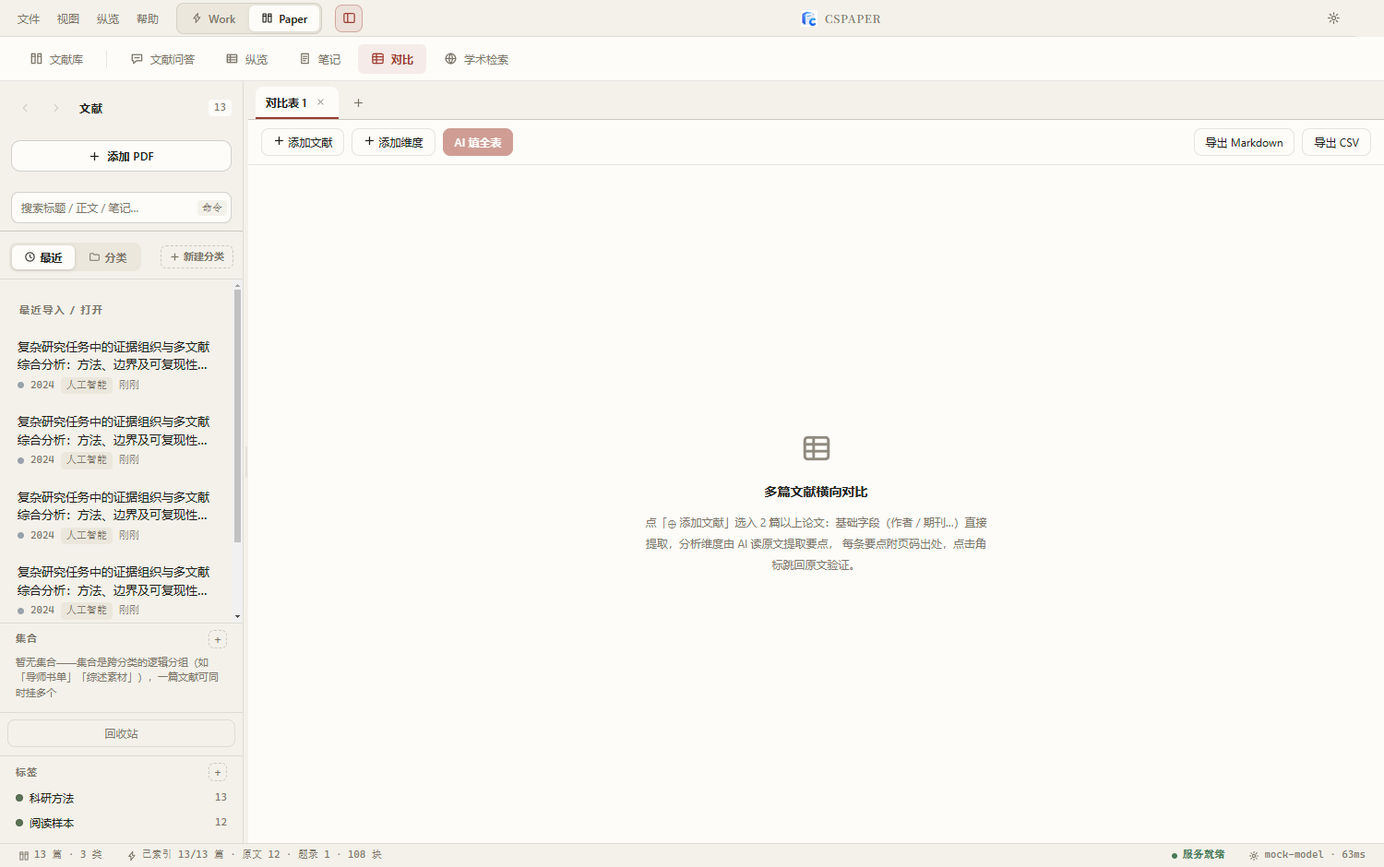
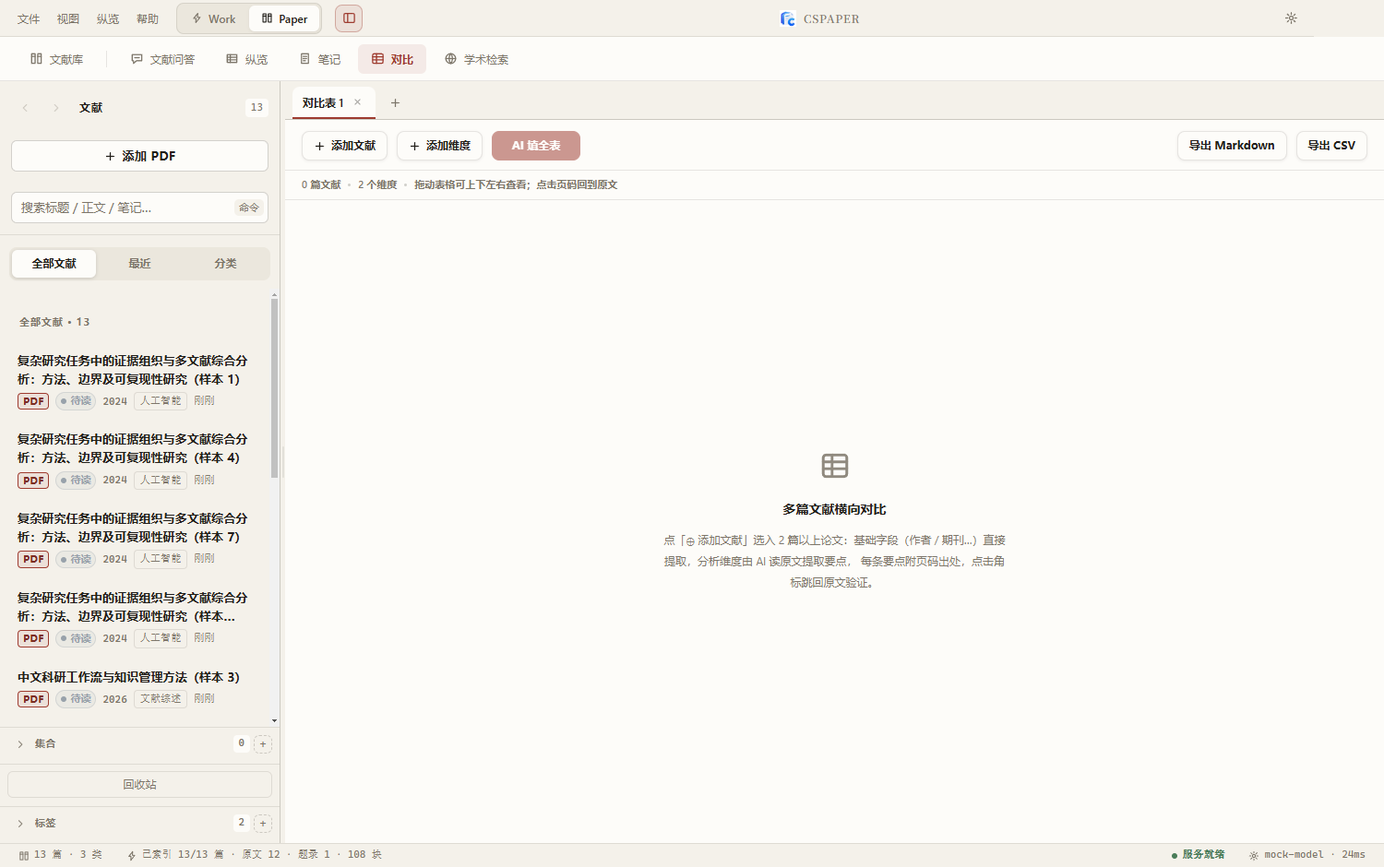
fix: make comparison tables pannable
Add drag-to-pan for comparison tables, keep headers and identity columns visible, and redesign toolbar, table density, citations and hover states.

Verified typecheck, 83/83 core regressions, 103/103 UI regressions including right/down drag, build, CSS gate, and landing tests.

diff --git a/src/renderer/src/styles.css b/src/renderer/src/styles.css
@@ -870,48 +870,99 @@ html.mac { --tb-h: 44px; }
 .paper-item .deep-snip { font-size: 11px; color: var(--text-dim); line-height: 1.55; margin-top: 4px;
                          display: -webkit-box; -webkit-line-clamp: 2; -webkit-box-orient: vertical; overflow: hidden; }
 
-/* ============ v0.4：AI 对比表格（CompareView） ============ */
-.cmp-host { flex: 1; min-width: 0; display: flex; flex-direction: column; background: var(--bg); }
-.cmp-wrap { flex: 1; min-width: 0; display: flex; flex-direction: column; }
+/* ============ Work：AI 对比表格 ============ */
+.cmp-host { flex: 1; min-width: 0; min-height: 0; display: flex; flex-direction: column; background: var(--bg); }
+.cmp-wrap { flex: 1; min-width: 0; min-height: 0; display: flex; flex-direction: column; }
 .cmp-add-tab { color: var(--text-dim); font-size: 13px; justify-content: center; min-width: 34px; }
 .cmp-add-tab:hover { color: var(--accent); }
-.cmp-toolbar { display: flex; align-items: center; gap: 8px; padding: 9px 14px; border-bottom: 1px solid var(--line); background: var(--bg); }
-.cmp-btn { border: 1px solid var(--line); background: var(--surface); color: var(--text); border-radius: 8px;
-           padding: 6px 12px; font-size: 12px; cursor: pointer; }
-.cmp-btn:hover { border-color: var(--accent); color: var(--accent); }
-.cmp-btn.primary { background: var(--accent); border-color: var(--accent); color: #fff; font-weight: 600; }
-.cmp-btn.primary:hover { opacity: .92; color: #fff; }
-.cmp-btn:disabled { opacity: .5; cursor: default; }
-.cmp-err { padding: 7px 14px; font-size: 12px; color: var(--danger); background: rgba(180,68,60,.07); }
-.cmp-scroll { flex: 1; overflow: auto; }
-.cmp-table { border-collapse: separate; border-spacing: 0; min-width: 100%; font-size: 12px; }
-.cmp-table th, .cmp-table td { border-bottom: 1px solid var(--line); border-right: 1px solid var(--line);
-                               padding: 10px 12px; vertical-align: top; text-align: left; background: var(--surface); }
-.cmp-table th { position: sticky; top: 0; z-index: 2; font-weight: 600; font-size: 12px; background: var(--bg2); white-space: nowrap; }
-.cmp-table td.cmp-idx, .cmp-table th.cmp-idx { position: sticky; left: 0; z-index: 1; color: var(--text-dim); min-width: 34px; text-align: right; }
-.cmp-table th.cmp-idx { z-index: 3; }
-.cmp-table td.cmp-title, .cmp-table th.cmp-title { position: sticky; left: 34px; min-width: 190px; max-width: 250px; z-index: 1; }
-.cmp-table th.cmp-title { z-index: 3; }
-.cmp-title-text { font-weight: 600; line-height: 1.5; cursor: pointer; }
-.cmp-title-text:hover { color: var(--accent); text-decoration: underline; text-underline-offset: 2px; }
-.cmp-title-actions { display: flex; gap: 6px; margin-top: 8px; }
-.cmp-mini { border: 1px solid var(--line); background: none; color: var(--text-dim); border-radius: 6px;
-            padding: 2px 8px; font-size: 11px; cursor: pointer; }
-.cmp-mini:hover { color: var(--accent); border-color: var(--accent); }
-.cmp-mini.danger:hover { color: var(--danger); border-color: var(--danger); }
-.cmp-mini:disabled { opacity: .55; cursor: default; }
+
+.cmp-toolbar {
+  flex: none; display: flex; align-items: center; flex-wrap: wrap; gap: 10px;
+  padding: 12px 18px 10px; border-bottom: 1px solid var(--border);
+  background: var(--bg); font-family: var(--sans);
+}
+.cmp-toolbar-group { display: flex; align-items: center; gap: 8px; min-width: 0; }
+.cmp-btn {
+  display: inline-flex; align-items: center; gap: 6px; min-height: 32px; padding: 0 12px;
+  border: 1px solid var(--border); border-radius: 8px; background: var(--bg); color: var(--text);
+  font: 600 12px/1 var(--sans); cursor: pointer; box-shadow: var(--shadow-sm);
+  transition: border-color var(--speed), color var(--speed), background var(--speed), transform var(--speed);
+}
+.cmp-btn:hover:not(:disabled), .cmp-btn:focus-visible { border-color: var(--accent); color: var(--accent2); background: var(--accent-soft); outline: none; }
+.cmp-btn.primary { border-color: var(--accent); background: var(--accent); color: #fff; }
+.cmp-btn.primary:hover:not(:disabled), .cmp-btn.primary:focus-visible { background: var(--accent2); border-color: var(--accent2); color: #fff; }
+.cmp-btn:disabled { opacity: .52; cursor: not-allowed; box-shadow: none; }
+.cmp-toolbar .cmp-btn.primary { min-width: 96px; justify-content: center; }
+.cmp-meta-bar {
+  flex: none; display: flex; align-items: center; gap: 8px; padding: 7px 18px;
+  border-bottom: 1px solid var(--border); color: var(--text-dim); font-size: 11px; font-weight: 600;
+}
+.cmp-meta-bar i { width: 3px; height: 3px; border-radius: 50%; background: var(--border-lit); }
+.cmp-err { margin: 0 18px; padding: 7px 10px; border: 1px solid rgba(213,96,108,.34); border-radius: 6px; font-size: 12px; color: var(--danger); background: rgba(213,96,108,.07); }
+
+.cmp-scroll {
+  flex: 1; min-width: 0; min-height: 0; overflow: auto; overscroll-behavior: auto;
+  scrollbar-gutter: stable; background: var(--bg2); cursor: grab;
+}
+.cmp-scroll.panning { cursor: grabbing; user-select: none; }
+.cmp-scroll:focus-visible { outline: 2px solid var(--accent); outline-offset: -2px; }
+
+.cmp-table {
+  width: max-content; min-width: max(100%, 1080px); border-collapse: separate; border-spacing: 0;
+  font-family: var(--sans); font-size: 13px; color: var(--text);
+}
+.cmp-table th, .cmp-table td {
+  box-sizing: border-box; padding: 12px 14px; vertical-align: top; text-align: left;
+  background: var(--bg); border-right: 1px solid var(--border); border-bottom: 1px solid var(--border);
+}
+.cmp-table th:last-child, .cmp-table td:last-child { border-right: 0; }
+.cmp-table tbody tr:last-child td { border-bottom: 0; }
+.cmp-table tbody tr:hover td { background: color-mix(in srgb, var(--bg2) 82%, var(--accent-soft)); }
+.cmp-table th {
+  position: sticky; top: 0; z-index: 2; min-height: 46px; align-items: center;
+  color: var(--text-dim); background: var(--bg); font-size: 12px; font-weight: 700; white-space: nowrap;
+  border-bottom: 1px solid var(--border-lit);
+}
+.cmp-table td.cmp-idx, .cmp-table th.cmp-idx {
+  position: sticky; left: 0; z-index: 1; width: 48px; min-width: 48px; max-width: 48px;
+  padding: 12px 9px; color: var(--text-dim); font-family: var(--mono); text-align: right;
+}
+.cmp-table td.cmp-title, .cmp-table th.cmp-title {
+  position: sticky; left: 48px; z-index: 1; width: 300px; min-width: 300px; max-width: 330px;
+}
+.cmp-table th.cmp-idx, .cmp-table th.cmp-title { z-index: 4; box-shadow: 3px 0 0 -2px var(--border); }
+.cmp-table td.cmp-idx, .cmp-table td.cmp-title { box-shadow: 3px 0 0 -2px var(--border); }
+.cmp-title-text { color: var(--text); font-size: 13px; font-weight: 650; line-height: 1.55; cursor: pointer; overflow-wrap: anywhere; }
+.cmp-title-text:hover { color: var(--accent2); text-decoration: underline; text-underline-offset: 3px; }
+.cmp-title-actions { display: flex; gap: 5px; margin-top: 10px; }
+.cmp-mini {
+  display: inline-flex; align-items: center; min-height: 24px; padding: 0 8px;
+  border: 1px solid var(--border); border-radius: 6px; background: var(--bg2);
+  color: var(--text-dim); font: 600 11px/1 var(--sans); cursor: pointer;
+  transition: color var(--speed), border-color var(--speed), background var(--speed);
+}
+.cmp-mini:hover:not(:disabled), .cmp-mini:focus-visible { color: var(--accent2); border-color: var(--accent); background: var(--accent-soft); outline: none; }
+.cmp-mini.danger:hover, .cmp-mini.danger:focus-visible { color: var(--danger); border-color: var(--danger); background: rgba(213,96,108,.08); }
+.cmp-mini:disabled { opacity: .55; cursor: not-allowed; }
 .cmp-missing { color: var(--text-dim); font-size: 12px; }
-.cmp-cell { min-width: 230px; max-width: 330px; }
-.cmp-empty { color: var(--text-dim); }
-.cmp-points { margin: 0; padding: 0; list-style: none; display: flex; flex-direction: column; gap: 7px; }
-.cmp-points li { display: flex; gap: 6px; align-items: flex-start; line-height: 1.6; }
-.cmp-points li > span { flex: 1; }
-.cmp-points .cite-chip { flex: none; margin-top: 2px; }
-.cmp-meta { min-width: 130px; max-width: 200px; font-size: 12px; color: var(--text-dim); }
-.cmp-pick-list { max-height: 330px; overflow-y: auto; display: flex; flex-direction: column; gap: 2px; padding: 4px 2px; }
-.cmp-pick-row { display: flex; gap: 9px; align-items: center; padding: 7px 9px; border-radius: 8px; font-size: 12px; cursor: pointer; }
-.cmp-pick-row:hover { background: var(--bg2); }
+
+.cmp-table td.cmp-meta { width: 148px; min-width: 148px; max-width: 180px; color: var(--text-dim); font-size: 12px; line-height: 1.55; }
+.cmp-table td.cmp-cell { width: 390px; min-width: 390px; max-width: 470px; }
+.cmp-empty { color: var(--text-dim); opacity: .62; font-size: 12px; }
+.cmp-points { margin: 0; padding: 0; list-style: none; display: flex; flex-direction: column; gap: 10px; }
+.cmp-points li { display: flex; gap: 8px; align-items: flex-start; }
+.cmp-points li > span { flex: 1; min-width: 0; color: var(--text); font-size: 13px; line-height: 1.65; overflow-wrap: anywhere; }
+.cmp-points .cite-chip {
+  flex: none; min-width: 25px; margin: 2px 0 0; padding: 3px 7px;
+  border: 1px solid rgba(158,59,47,.24); border-radius: 999px; background: var(--accent-soft);
+  color: var(--accent2); font: 600 11px/1 var(--mono); text-align: center;
+}
+.cmp-points .cite-chip:hover { transform: translateY(-1px); border-color: var(--accent); }
+.cmp-pick-list { max-height: min(430px, 58vh); overflow: auto; display: flex; flex-direction: column; gap: 2px; padding: 4px 2px; }
+.cmp-pick-row { display: flex; gap: 10px; align-items: center; min-height: 38px; padding: 8px 10px; border: 1px solid transparent; border-radius: 8px; font-family: var(--sans); font-size: 12px; line-height: 1.5; cursor: pointer; }
+.cmp-pick-row:hover { border-color: var(--border-lit); background: var(--bg2); }
 .cmp-pick-row input { accent-color: var(--accent); }
+@media (max-width: 1100px) { .cmp-toolbar { align-items: flex-start; flex-direction: column; } .cmp-toolbar-group { width: 100%; } }
 
 /* ============ v0.4：全文翻译（逐段双语） ============ */
 .bil-wrap { flex: 1; display: flex; flex-direction: column; min-height: 0; }
@@ -2198,11 +2249,11 @@ html[data-theme='dark'] .pcard:hover, html[data-theme='dark'] .wb-card:hover, ht
 .libhome-title { font-family: var(--serif); letter-spacing: 1px; }
 
 
-/* ---------- v0.15 对比表列宽约束（修复维度列被挤歪） ---------- */
-.cmp-table th.cmp-title, .cmp-table td.cmp-title { min-width: 240px; max-width: 320px; }
-.cmp-table td.cmp-meta { min-width: 108px; max-width: 200px; }
-.cmp-table td.cmp-cell { min-width: 230px; }
-.cmp-empty { color: var(--text-dim); opacity: 0.55; font-size: 12px; }
+/* ---------- 对比表窄窗约束 ---------- */
+@media (max-width: 1350px) {
+  .cmp-table td.cmp-title, .cmp-table th.cmp-title { width: 260px; min-width: 260px; max-width: 290px; }
+  .cmp-table td.cmp-cell { width: 330px; min-width: 330px; max-width: 400px; }
+}
 
 /* ---------- v0.15.1 纵览工具条按钮收紧 ---------- */
 .ov-filters .btn { padding: 5px 12px; font-size: 12px; }

diff --git a/docs/index.html b/docs/index.html
@@ -39,7 +39,7 @@ footer{padding:46px 0;color:var(--muted);font-size:13px}.foot{display:flex;justi
   <div class="hero-shot"><img src="./screenshots/work.png" alt="CSPAPER Work 今日科研台"><div class="float a"><b>今日科研</b>日程 · 截止 · 专注</div><div class="float b"><b>科研日历</b>月 / 周 / 日 / 议程</div></div>
 </div></header>
 
-<div class="shell"><div class="stats"><div class="stat"><b>102/102</b><span>真实 Electron UI 回归</span></div><div class="stat"><b>83/83</b><span>核心与迁移回归</span></div><div class="stat"><b>7</b><span>真实模型任务工具调用</span></div><div class="stat"><b>本地</b><span>数据与 API Key 优先</span></div></div></div>
+<div class="shell"><div class="stats"><div class="stat"><b>103/103</b><span>真实 Electron UI 回归</span></div><div class="stat"><b>83/83</b><span>核心与迁移回归</span></div><div class="stat"><b>7</b><span>真实模型任务工具调用</span></div><div class="stat"><b>本地</b><span>数据与 API Key 优先</span></div></div></div>
 
 <section id="features"><div class="shell"><div class="section-head"><div class="k">CAPABILITIES</div><h2>从导入到产出一站完成</h2><p>CSPAPER 不只是 PDF 阅读器，而是把阅读、证据、写作与 Agent 产物连接在同一个本地数据模型里。</p></div>
 <div class="features">
@@ -60,7 +60,7 @@ footer{padding:46px 0;color:var(--muted);font-size:13px}.foot{display:flex;justi
 
 <section id="gallery"><div class="shell"><div class="section-head"><div class="k">INTERFACE</div><h2>为长时间阅读设计的界面</h2><p>统一的品牌系统、可拖拽分栏、模型能力控制、深浅主题与窄窗布局。</p></div><div class="gallery"><figure class="shot"><img src="./screenshots/reader.png" alt="PDF 阅读"><figcaption class="caption"><b>阅读与侧栏问答</b><span>高亮 · 翻译 · 精确选区引用</span></figcaption></figure><figure class="shot"><img src="./screenshots/work.png" alt="Work Agent"><figcaption class="caption"><b>Work 科研工作台</b><span>今日 · 日历 · 计划 · 工具 · 产物</span></figcaption></figure><figure class="shot"><img src="./screenshots/graph.png" alt="知识网络"><figcaption class="caption"><b>知识网络</b><span>滚轮缩放 · 平移 · 五种视图</span></figcaption></figure><figure class="shot"><img src="./screenshots/providers.png" alt="模型配置"><figcaption class="caption"><b>模型能力档案</b><span>多服务商 · 自定义推理等级</span></figcaption></figure></div></div></section>
 
-<section id="evidence" class="dark"><div class="shell"><div class="section-head"><div class="k">VERIFICATION</div><h2>发布前不是“看起来能用”</h2><p>本机完成源码、打包应用、安装器生命周期、强制崩溃恢复与真实模型链路验证。</p></div><div class="evidence"><div class="proof"><b>83/83</b><span>核心、迁移、运行时、工具与数据回归</span></div><div class="proof"><b>102/102</b><span>真实 Electron UI 回归通过，无 renderer 异常</span></div><div class="proof"><b>NSIS</b><span>首装 · 启动 · 升级 · 卸载 · 残留检查</span></div><div class="proof"><b>真实模型</b><span>Agnes 严格 JSON 与三文献工具链</span></div><div class="proof"><b>10k</b><span>万篇列表 86.45ms，事件循环最大 94.33ms</span></div><div class="proof"><b>迁移备份</b><span>WAL 纳入备份，历史迁移 checksum 拒绝漂移</span></div></div><p class="note">最新证据目录：design-plans/work-upgrade-2026-10-29/；发布基线证据：design-plans/execution-review-2026-10-29/。CI 与安装器发布由 GitHub Actions 自动执行。</p></div></section>
+<section id="evidence" class="dark"><div class="shell"><div class="section-head"><div class="k">VERIFICATION</div><h2>发布前不是“看起来能用”</h2><p>本机完成源码、打包应用、安装器生命周期、强制崩溃恢复与真实模型链路验证。</p></div><div class="evidence"><div class="proof"><b>83/83</b><span>核心、迁移、运行时、工具与数据回归</span></div><div class="proof"><b>103/103</b><span>真实 Electron UI 回归通过，无 renderer 异常</span></div><div class="proof"><b>NSIS</b><span>首装 · 启动 · 升级 · 卸载 · 残留检查</span></div><div class="proof"><b>真实模型</b><span>Agnes 严格 JSON 与三文献工具链</span></div><div class="proof"><b>10k</b><span>万篇列表 86.45ms，事件循环最大 94.33ms</span></div><div class="proof"><b>迁移备份</b><span>WAL 纳入备份，历史迁移 checksum 拒绝漂移</span></div></div><p class="note">最新证据目录：design-plans/work-upgrade-2026-10-29/；发布基线证据：design-plans/execution-review-2026-10-29/。CI 与安装器发布由 GitHub Actions 自动执行。</p></div></section>
 
 <section id="download"><div class="shell"><div class="section-head"><div class="k">DOWNLOAD</div><h2>选择你的平台</h2><p>安装包由 GitHub Actions 构建并附加到 Release；也可以克隆仓库自行构建。</p></div><div class="downloads"><a class="download" href="https://github.com/Jensen-Yao/CSPAPER/releases/latest"><div class="os">🪟</div><h3>Windows</h3><p>Windows 10/11 x64 NSIS</p><span class="btn primary" style="margin-top:16px">下载 exe</span></a><a class="download" href="https://github.com/Jensen-Yao/CSPAPER/releases/latest"><div class="os">🍎</div><h3>macOS</h3><p>Apple Silicon / Intel DMG</p><span class="btn primary" style="margin-top:16px">下载 dmg</span></a><a class="download" href="https://github.com/Jensen-Yao/CSPAPER/releases/latest"><div class="os">🤖</div><h3>Android</h3><p>Android 7.0+ 阅读端 APK</p><span class="btn primary" style="margin-top:16px">下载 APK</span></a></div></div></section>
 

diff --git a/src/renderer/src/CompareView.tsx b/src/renderer/src/CompareView.tsx
@@ -1,4 +1,4 @@
-import { useEffect, useMemo, useState } from 'react'
+import { useEffect, useMemo, useRef, useState } from 'react'
 import type { CompareData, CompareTable, Paper } from './types'
 import { BASE_FIELDS, AI_DIMENSION_PRESETS } from './dimensions'
 import * as Icon from './Icon'
@@ -38,6 +38,42 @@ export default function CompareView({ papers, onJump }: Props): JSX.Element {
   const [customDim, setCustomDim] = useState('')
   const [genAllBusy, setGenAllBusy] = useState(false)
   const [genAllProg, setGenAllProg] = useState('')
+  const cmpScrollRef = useRef<HTMLDivElement | null>(null)
+  const [panning, setPanning] = useState(false)
+  const panPointRef = useRef({ x: 0, y: 0, left: 0, top: 0 })
+  const panningRef = useRef(false)
+
+  const beginTablePan = (event: React.PointerEvent<HTMLDivElement>): void => {
+    if (event.button !== 0 || event.pointerType === 'touch') return
+    const target = event.target as HTMLElement
+    if (target.closest('button, input, textarea, select, label, a, .cite-chip')) return
+    const container = cmpScrollRef.current
+    if (!container || container.scrollWidth <= container.clientWidth + 2) return
+    event.preventDefault()
+    window.getSelection()?.removeAllRanges()
+    container.setPointerCapture(event.pointerId)
+    panPointRef.current = {
+      x: event.clientX,
+      y: event.clientY,
+      left: container.scrollLeft,
+      top: container.scrollTop
+    }
+    panningRef.current = true
+    setPanning(true)
+  }
+  const moveTablePan = (event: React.PointerEvent<HTMLDivElement>): void => {
+    const container = cmpScrollRef.current
+    if (!container || !panningRef.current) return
+    const start = panPointRef.current
+    container.scrollLeft = Math.max(0, start.left - (event.clientX - start.x))
+    container.scrollTop = Math.max(0, start.top - (event.clientY - start.y))
+  }
+  const endTablePan = (event: React.PointerEvent<HTMLDivElement>): void => {
+    if (!panningRef.current) return
+    panningRef.current = false
+    try { event.currentTarget.releasePointerCapture(event.pointerId) } catch { /* pointer capture may already be released */ }
+    setPanning(false)
+  }
 
   useEffect(() => {
     void window.api
@@ -272,6 +308,14 @@ export default function CompareView({ papers, onJump }: Props): JSX.Element {
         </button>
       </div>
 
+      <div className="cmp-meta-bar">
+        <span>{active.data.paperIds.length} 篇文献</span>
+        <i />
+        <span>{active.data.dimensions.length} 个维度</span>
+        <i />
+        <span>拖动表格可上下左右查看；点击页码回到原文</span>
+      </div>
+
       {err && <div className="cmp-err">{err}</div>}
 
       {active.data.paperIds.length === 0 ? (
@@ -284,7 +328,16 @@ export default function CompareView({ papers, onJump }: Props): JSX.Element {
           </div>
         </div>
       ) : (
-        <div className="cmp-scroll">
+        <div
+          ref={cmpScrollRef}
+          className={`cmp-scroll ${panning ? 'panning' : ''}`}
+          role="region"
+          aria-label="对比表内容：可拖动上下左右滚动"
+          onPointerDown={beginTablePan}
+          onPointerMove={moveTablePan}
+          onPointerUp={endTablePan}
+          onPointerCancel={endTablePan}
+        >
           <table className="cmp-table">
             <thead>
               <tr>

diff --git a/docs/IMPLEMENTATION_STATUS.md b/docs/IMPLEMENTATION_STATUS.md
@@ -1,6 +1,6 @@
 # 当前实施状态（2026-10-29）
 
-**状态：0.21.1 左栏信息架构修正已实现并验证；0.21.0 Work 科研工作台已发布。完整提升计划仍未全部完成。**此前逐项对照见 [PLAN_ACCEPTANCE.md](./PLAN_ACCEPTANCE.md)。
+**状态：0.21.2 AI 对比表拖动浏览与视觉重构已实现并验证；0.21.1 左栏信息架构修正已发布。完整提升计划仍未全部完成。**此前逐项对照见 [PLAN_ACCEPTANCE.md](./PLAN_ACCEPTANCE.md)。
 
 当前 Work 的 `/plan` 生成可审阅计划但不执行工具；`/goal` 保存全局研究背景并纳入后续 Work 规划。它尚不是有独立状态、暂停/恢复、自动续跑和完成验证的长期目标系统。执行器目前仍以一次生成的静态计划为主，工具结果驱动的持续规划和实时干预也尚待完善。
 
@@ -24,7 +24,7 @@ Work 可显式选择技能并把技能正文快照传给本轮规划、修订和
 | `npm run typecheck` | 通过（含 tests 工程） |
 | `npm run test:core` | 83 / 83 |
 | `npm run build` | 通过 |
-| `npm run test:ui` | 102 / 102，无 renderer 异常 |
+| `npm run test:ui` | 103 / 103，无 renderer 异常 |
 | `node scripts/probe-css.mjs` | 圆角 17 档、字号 14 档、important 5、half-px 0、transition-all 0，全绿 |
 | `node scripts/landing-test.mjs` | 首页/功能/下载截图与 demo 资源检查通过 |
 | `npm run test:mobile` | 5 / 5；测试夹具从 10.9 MB 降至 10.8 KB，翻译响应离线固定，无 renderer 错误 |
@@ -130,6 +130,14 @@ main 与 GitHub Pages 已更新；远端 CI 已通过。此次用户指令为推
 - “集合”和“标签”改为独立可折叠附属区，默认收起，展开状态本地记忆，不再挤压主文献列表。
 - 左栏默认宽度提升到 304px，范围 240–560px；导航、搜索、分类、文献行、集合、标签和回收站统一无衬线字体与密度。
 - 验证：typecheck 通过、生产构建与 CSS gate 通过、Electron UI 回归 102/102；覆盖全部文献默认视图、附属区折叠、分类默认收起、全局展开/收起与跨分类拖拽。
+
+## 持续迭代：AI 对比表拖动浏览（2026-10-29）
+
+- 对比表支持按住空白/单元格区域后整体上下左右拖动；按钮、页码角标和输入控件不触发拖拽。
+- 表格滚动区域保留原生滚动条，同时提供明确的拖动光标和“拖动表格可上下左右查看”提示。
+- 表头、序号列与标题列滚动时保持可见，重叠区域增加清晰投影。
+- 工具栏分组、表格密度、行悬停、要点行距、页码角标、空值与选中文献列表视觉重构。
+- 验证：typecheck 通过、生产构建与 CSS gate 通过、Electron UI 回归 103/103；新增上下左右拖动回归。
 
 ## 证据
 

diff --git a/docs/WORK_UPGRADE_PLAN.md b/docs/WORK_UPGRADE_PLAN.md
@@ -15,7 +15,7 @@ Work 服务于个人科研工作的完整过程：整理研究问题、安排时
 
 ## 1.1 本轮执行状态（2026-10-29）
 
-已落地并验证的是 P1 的核心科研台切片：Work 今日首页、左侧栏科研日历、日历月/周/日/议程、具体时间与重复日程、PDF 阅读番茄钟、阅读/短休/长休流水、喝水与活动提醒、提醒设置持久化、真实专注汇总和持久化队列取消；文献栏顶层提供全部文献 / 最近 / 分类，默认显示全部文献；分类默认收起，集合与标签为独立可折叠附属区，同时保留清晰 PDF/题录状态和跨分类拖拽。相关核心回归 83/83，Electron UI 回归 102/102，无 renderer 异常。
+已落地并验证的是 P1 的核心科研台切片：Work 今日首页、左侧栏科研日历、日历月/周/日/议程、具体时间与重复日程、PDF 阅读番茄钟、阅读/短休/长休流水、喝水与活动提醒、提醒设置持久化、真实专注汇总和持久化队列取消；文献栏顶层提供全部文献 / 最近 / 分类，默认显示全部文献；分类默认收起，集合与标签为独立可折叠附属区，同时保留清晰 PDF/题录状态和跨分类拖拽。相关核心回归 83/83，Electron UI 回归 103/103，无 renderer 异常。
 
 本轮尚未宣称完成完整 P2—P4：外部文件附件与解析、项目/任务/里程碑模型、长期目标生命周期、研究日志/实验记录/成果中心仍在后续批次。计时器当前保证离开阅读页暂停阅读阶段、休息阶段可继续；应用重启后的进行中阶段恢复仍是已知限制，后续需要持久化 phase/remaining/startedAt 并补睡眠与跨日恢复测试。
 

diff --git a/README.md b/README.md
@@ -50,6 +50,11 @@
 - **笔记中心**：论文笔记、划词标注、独立笔记、模板、Markdown 导出、思维导图。
 - **引文生态**：内置 12 种常用 CSL，可扩展官方万种样式；Word / WPS 引文助手与 BibTeX 导出。
 
+### 📊 AI 对比表格
+- 表格支持按住后整体上下左右拖动浏览，不再依赖难以发现的滚动条。
+- 表头、序号列和标题列在滚动时保持可见；页码角标可直接回到原文。
+- 工具栏分组、表格密度、斑马层级、来源角标和空值状态重新设计，长文对比更易读。
+
 ### 🗂 左侧文献栏
 - 顶层固定提供 **全部文献 / 最近 / 分类** 三种浏览方式，默认直接显示全部文献。
 - 分类默认收起，需要时单组展开或全部展开；拖拽文献到分类头仍可移动。
@@ -139,7 +144,7 @@ Markdown + CSL + PDF    Operation Journal
 |---|---|
 | Typecheck | ✅ 通过 |
 | Core regression | ✅ 83 / 83 |
-| UI regression | ✅ 102 / 102，无 renderer 异常 |
+| UI regression | ✅ 103 / 103，无 renderer 异常 |
 | Packaged app UI | ✅ 63 / 63 |
 | Lifecycle / crash | ✅ 单实例、窗口清理、操作崩溃、托盘恢复 |
 | Installer baseline | ✅ 0.20.0 首装、启动、升级、卸载、残留检查；0.21.0 安装包由推送后的 CI / Release 工作流构建 |
